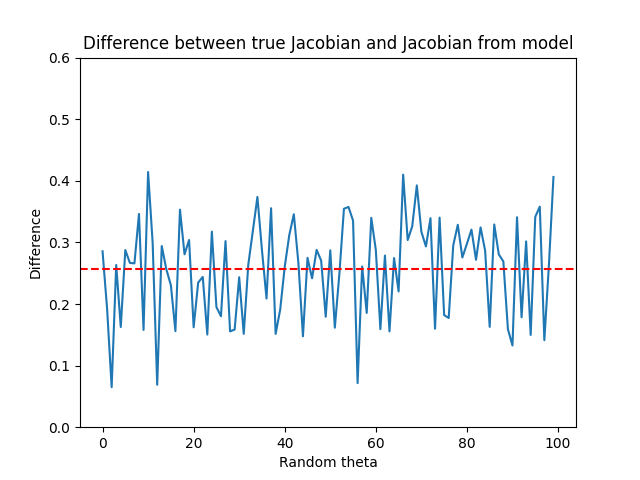
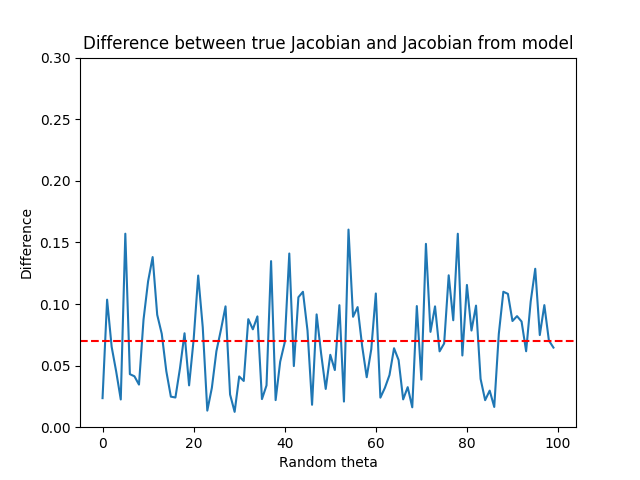
final changes: created main instead of run. modified hyper tuning. TODO: delete old files and create a py module

diff --git a/src/hyper_tuning_NN.py b/src/hyper_tuning_NN.py
@@ -1,60 +1,54 @@
 import parse
 import models
 import numpy as np
-import matplotlib.pyplot as plt
-import tensorflow as tf
 from itertools import product
 
-def run_experiment(neurons, activation, loss, optimizer, X_train, y_train, X_test, y_test, noutput):
-    model = tf.keras.models.Sequential([
-        tf.keras.layers.Dense(neurons[0], activation=activation),
-        tf.keras.layers.Dense(neurons[1], activation=activation),
-        tf.keras.layers.Dense(noutput)
-    ])
+def run_experiment(neurons, activation, loss, optimizer, dropout, regularize, X_train, y_train, X_test, y_test):
 
-    model.compile(optimizer=optimizer, loss=loss)
-    model.fit(X_train, y_train, epochs=10, verbose=0)  # Set verbose to 1 to see training output
+    global DIM, NJOINT
+    
+    nn = models.NeuralNetwork(DIM, NJOINT, neurons, regularize=regularize, dropout=dropout, optimizer=optimizer, activation=activation, loss=loss, save_model=False)
+    model = nn.get_trained_model(X_train, y_train)
+    err_pos, err_ori = nn.evaluate(X_test, y_test, verbose=0)
 
-    # Evaluate the model
-    loss_value = model.evaluate(X_test, y_test, verbose=0)
-    y_pred = model.predict(X_test)
-    err_pos = np.linalg.norm(y_pred[:, :DIM] - y_test[:, :DIM], axis=1)
     mean_err_pos = np.mean(err_pos)
 
-    if ORIENTATION:
-        err_ori = np.linalg.norm(y_pred[:, DIM:] - y_test[:, DIM:], axis=1)
+    if err_ori is not None:
         mean_err_ori = np.mean(err_ori)
         mean_total_error = np.mean(np.sqrt(err_pos**2 + err_ori**2))
     else:
         mean_err_ori = None
         mean_total_error = mean_err_pos
 
-    return loss_value, mean_err_pos, mean_err_ori, mean_total_error, model
+    return mean_err_pos, mean_err_ori, mean_total_error, model
 
 if __name__ == "__main__":
 
     DIM = 2
     NJOINT = 3
-    ORIENTATION = True
     VALIDATION = False
+    IN_SINCOS = False
+    OUT_ORIENTATION = False
 
     # ------------------------------------------------------------------------
     # Load the data
 
-    noutput = DIM + (4 if ORIENTATION and DIM == 3 else 2) if ORIENTATION else DIM
+    noutput = (DIM + (4 if OUT_ORIENTATION and DIM == 3 else 2)) if OUT_ORIENTATION else DIM
 
     data, header = parse.parse_data(f"../Dataset/logfile_{DIM}_{NJOINT}.csv")
-    X_train, X_test, y_train, y_test = parse.split_data(data, NJOINT, DIM, consider_orientation=ORIENTATION, header=header)
+    X_train, X_test, y_train, y_test = parse.split_data(data, NJOINT, DIM, consider_sincos=IN_SINCOS, consider_orientation=OUT_ORIENTATION, header=header)
 
     assert noutput == y_train.shape[1]
 
 
     # -----------------------------------------------------------------------
     # Hyperparameter to tune
-    neurons_options = [(x, y) for x,y in product([8, 16, 32, 48, 64], repeat=2)]
+    neurons_options = [(12,12), (16,16), (32,16), (32,32), (48,48)]
     activation_options = ['relu', 'tanh']
     loss_options = ['mean_squared_error', 'mean_absolute_error']
-    optimizer_options = ['adam', 'sgd', 'rmsprop']
+    optimizer_options = ['adam', 'sgd']
+    dropout_options = [True, False]
+    regularize_options = [True, False]
 
 
     # -----------------------------------------------------------------------
@@ -63,24 +57,34 @@ if __name__ == "__main__":
     best_error = float('inf')
     best_model = None
 
-    for neurons, activation, loss, optimizer in product(neurons_options, activation_options, loss_options, optimizer_options):
-        loss_value, mean_err_pos, mean_err_ori, mean_total_error, model = run_experiment(
-            neurons, activation, loss, optimizer, X_train, y_train, X_test, y_test, noutput
+    for neurons, activation, loss, optimizer, dropout, regularize in product(
+        neurons_options, activation_options, loss_options, optimizer_options, dropout_options, regularize_options):
+        
+        mean_err_pos, mean_err_ori, mean_total_error, model = run_experiment(
+            neurons, activation, loss, optimizer, dropout, regularize, X_train, y_train, X_test, y_test
         )
 
-        print(f"Configuration: Neurons={neurons}, Activation={activation}, Loss={loss}, Optimizer={optimizer}")
-        print(f"Loss: {loss_value}, Mean Pos Error: {mean_err_pos}, Mean Ori Error: {mean_err_ori}, Total Error: {mean_total_error}")
+        print(f"Configuration: Neurons={neurons}, Activation={activation}, Loss={loss}, Optimizer={optimizer}, Dropout={dropout}, Regularize={regularize}")
+        print(f"Mean Pos Error: {mean_err_pos}, Mean Ori Error: {mean_err_ori}, Total Error: {mean_total_error}")
 
         if mean_total_error < best_error:
             best_error = mean_total_error
-            best_config = (neurons, activation, loss, optimizer)
+            best_config = (neurons, activation, loss, optimizer, dropout, regularize)
             best_model = model
 
 
     print("\nBest Configuration:")
-    print(f"Neurons: {best_config[0]}, Activation: {best_config[1]}, Loss: {best_config[2]}, Optimizer: {best_config[3]}")
+    print(f"Neurons: {best_config[0]}, Activation: {best_config[1]}, Loss: {best_config[2]}, Optimizer: {best_config[3]}, Dropout: {best_config[4]}, Regularize: {best_config[5]}")
     print(f"Best Mean Total Error: {best_error}")
 
     # -----------------------------------------------------------------------
     # Save the best model
-    best_model.save("best_model.keras")
+    end_str = ""
+    if best_config[4] or best_config[5]:
+        end_str = "_"
+        if best_config[4]:
+            end_str += "d"
+        if best_config[5]:
+            end_str += "r"
+
+    best_model.save(f"../Models/{NJOINT}DOF/TUNED_model_{NJOINT}dof_NN-{best_config[0][0]}-{best_config[0][1]}" + end_str + ".keras")

diff --git a/src/models.py b/src/models.py
@@ -35,3 +35,130 @@ def get_model(noutput, regularize=False, dropout=False, layers=(8,8)) -> tf.kera
     model.compile(optimizer='adam', loss='mean_squared_error')
 
     return model
+
+class NeuralNetwork:
+    def __init__(self, dim, njoint, layers: tuple, in_sincos=False, out_orientation=False, regularize=False, dropout=False,
+                 optimizer='adam', loss='mean_squared_error', activation='relu', save_model=True):
+        self.dim = dim
+        self.njoint = njoint
+        self.layers = layers
+        self.in_sincos = in_sincos
+        self.out_orientation = out_orientation
+        self.regularize = regularize
+        self.dropout = dropout
+        self.optimizer = optimizer
+        self.loss = loss
+        self.activation = activation
+
+        if out_orientation:
+            self.noutput = dim + (2 if dim == 2 else 4)
+        else:
+            self.noutput = dim
+        
+        end_str = ""
+        if dropout or regularize:
+            end_str = "_"
+            if dropout:
+                end_str += "d"
+            if regularize:
+                end_str += "r"
+
+        if save_model:
+            from os import listdir
+            self.get_model_filename = f"../Models/{njoint}DOF/model_{njoint}dof_NN-{layers[0]}-{layers[1]}" + end_str + ".keras"
+            if self.get_model_filename not in listdir(f"../Models/{njoint}DOF/"):
+                print("Already saved model found!")
+                self.set_model_filename = self.get_model_filename
+                self.get_model_filename = None
+        else:
+            self.get_model_filename = None
+            self.set_model_filename = None
+    
+    def __get_model__(self):
+        model_list = []
+        for layer in self.layers:
+            if self.regularize:
+                model_list.append(tf.keras.layers.Dense(layer, activation=self.activation, kernel_regularizer=tf.keras.regularizers.l2(0.001)))
+            else:
+                model_list.append(tf.keras.layers.Dense(layer, activation=self.activation))
+        if self.dropout:
+            model_list.append(tf.keras.layers.Dropout(0.2))
+        model_list.append(tf.keras.layers.Dense(self.noutput))
+        self.model = tf.keras.models.Sequential(model_list)
+        self.model.compile(optimizer=self.optimizer, loss=self.loss)
+
+        return self.model
+
+
+    def get_trained_model(self, X_train, y_train, verbose=False):
+
+        assert self.noutput == y_train.shape[1]
+        if verbose:
+            print(f"# input: {X_train.shape[1]}")
+            print(f"# output: {y_train.shape[1]}")
+            print()
+
+        if self.get_model_filename is not None:
+            self.model = tf.keras.models.load_model(self.get_model_filename)
+        else:
+            self.__get_model__()
+            self.model.fit(X_train, y_train, epochs=10, verbose=0)
+            if self.set_model_filename is not None:
+                self.model.save(self.set_model_filename)
+
+        return self.model
+            
+    def evaluate(self, X_test, y_test, verbose=2):
+        self.model.evaluate(X_test, y_test, verbose=verbose)
+
+        y_pred = self.model.predict(X_test)
+
+        err_pos = tf.linalg.norm(y_pred[:, :self.dim] - y_test[:, :self.dim], axis=1)
+        err_ori = None
+        if self.out_orientation:
+            err_ori = tf.linalg.norm(y_pred[:, self.dim:] - y_test[:, self.dim:], axis=1)
+
+        if verbose:
+            print(f"Mean error in position: {tf.reduce_mean(err_pos)}")
+            if self.out_orientation:
+                print(f"Mean error in orientation: {tf.reduce_mean(err_ori)}")
+
+        return err_pos, err_ori
+    
+    def plot_error(self, err_pos):
+        import matplotlib.pyplot as plt
+        plt.figure()
+        plt.plot(err_pos)
+        plt.savefig("output.png")
+
+    def compare_jacobian(self, model, thetas):
+        import jacobian
+        print("\n------------------------------")
+        print("Jacobian comparison\n")
+
+        diffs = []
+        for theta in thetas:
+            J = jacobian.FK_Jacobian(model,theta)
+            J_true = jacobian.fwd_kin_jacobian_true(theta)
+            diff = tf.abs(J-J_true)
+            df_sum = tf.reduce_sum(diff) / (self.njoint*2)
+            diffs.append(df_sum)
+
+        return diffs
+    
+    def plot_jac_diff(self, diffs):
+        import numpy as np
+        import matplotlib.pyplot as plt
+
+        plt.figure()
+        plt.plot(diffs)
+        plt.ylim(0, 0.3)
+        plt.axhline(y=tf.reduce_mean(diffs), color='r', linestyle='--')
+        plt.xlabel("Random theta")
+        plt.ylabel("Difference")
+        plt.title("Difference between true Jacobian and Jacobian from model")
+        plt.savefig(f"../Imgs/Jac_diffs/{self.njoint}DOF/NN_{self.layers[0]}-{self.layers[1]}_s100.png")
+        
+        print("Mean difference:", np.mean(diffs))
+        print("Max difference: ", np.max(diffs))
+        print("Min difference: ", np.min(diffs))

diff --git a/src/run.py b/src/run.py
@@ -1,3 +1,4 @@
+import os
 import pid
 import time
 import parse
@@ -15,21 +16,17 @@ if __name__ == "__main__":
     # Globals
 
     DIM = 2
-    NJOINT = 2
+    NJOINT = 3
     IN_SINCOS = False
     OUT_ORIENTATION = False
 
-    NN = (16,16)
+    NN = (48,48)
     VALIDATION = False
-    if VALIDATION:
-        SET_MODEL_FILENAME = None
-        GET_MODEL_FILENAME = f"../Models/{NJOINT}DOF/model_{NJOINT}dof_NN-{NN[0]}-{NN[1]}.keras"
-    else:
-        SET_MODEL_FILENAME = f"../Models/{NJOINT}DOF/model_{NJOINT}dof_NN-{NN[0]}-{NN[1]}.keras"
+
+    GET_MODEL_FILENAME = f"../Models/{NJOINT}DOF/model_{NJOINT}dof_NN-{NN[0]}-{NN[1]}.keras"
+    if GET_MODEL_FILENAME not in os.listdir(f"../Models/{NJOINT}DOF/"):
+        SET_MODEL_FILENAME = GET_MODEL_FILENAME
         GET_MODEL_FILENAME = None
-        GET_MODEL_FILENAME = f"../Models/{NJOINT}DOF/model_{NJOINT}dof_NN-{NN[0]}-{NN[1]}.keras"
-
-
     # ------------------------------------------------------------------------
     # Load the data and split it into train and test
 
@@ -58,8 +55,8 @@ if __name__ == "__main__":
 
 
     assert noutput == y_train.shape[1]
-    print(f"Number of input: {X_train.shape[1]}")
-    print(f"Number of output: {noutput}")
+    print(f"# input: {X_train.shape[1]}")
+    print(f"# output: {noutput}")
 
     # ------------------------------------------------------------------------
     # Train the model
@@ -137,7 +134,7 @@ if __name__ == "__main__":
 
     # ------------------------------------------------------------------------
     # Inverse Kinematics
-    
+
     print("------------------------------")
     print("Inverse Kinematics")
 
@@ -245,6 +242,15 @@ if __name__ == "__main__":
     print("----")
     print(f"[THT] GOT: {curr_theta}")
     print(f"[POS] GOT: {jacobian.FK(model, curr_theta)}")
+
+# [POS] True Goal:  sfera rossa
+# [POS] FK True:    sfera blu
+# [POS] FK:         sfera verde
+
+# distanza tra sfera blu e verde indica quanto la FK del modello è buona
+# - se lontane, probabilmente il modello non è stato addestrato bene
+# distanza tra sfera rossa e la verde indica quanto l'algoritmo di INV KIN è buono:
+# - se lontane, probabilmente l'algoritmo non ha trovato convergenza
 
 
 # 2 OUTPUT

diff --git a/src/inverse_kin.py b/src/inverse_kin.py
@@ -25,6 +25,7 @@ def inverse_kinematic(model, in_theta, goal_pos, num_it=500, lambda_=0.1, dbg=Fa
 
         for i in range(num_it):
             err = jacobian.FK(model, curr_theta) - goal_pos  
+            err = tf.cast(err, tf.float64)
 
             if tf.reduce_sum(tf.abs(err)) < 1e-3:
                 if dbg:
@@ -41,7 +42,6 @@ def inverse_kinematic(model, in_theta, goal_pos, num_it=500, lambda_=0.1, dbg=Fa
             delta_theta = tf.reshape(delta_theta, (-1,))
 
             curr_theta.assign_add(delta_theta)
-            # curr_theta.assign(tf.math.floormod(curr_theta, 2*np.pi))
             curr_theta.assign(tf.where(curr_theta > np.pi, curr_theta - 2*np.pi, curr_theta))
             curr_theta.assign(tf.where(curr_theta < -np.pi, curr_theta + 2*np.pi, curr_theta))
         else:
@@ -61,6 +61,7 @@ def inverse_kinematic(model, in_theta, goal_pos, num_it=500, lambda_=0.1, dbg=Fa
         for i in range(num_it):
             err = jacobian.FK(model, curr_theta) - goal_pos  
             err = tf.cast(err, tf.float64)
+            
             if tf.reduce_sum(tf.abs(err)) < 1e-3:
                 if dbg:
                     print(f"Break at iteration {i}")
@@ -75,7 +76,6 @@ def inverse_kinematic(model, in_theta, goal_pos, num_it=500, lambda_=0.1, dbg=Fa
             delta_theta = tf.reshape(delta_theta, (-1,))
 
             curr_theta.assign_add(delta_theta)
-            # curr_theta = tf.where(curr_theta > np.pi, curr_theta - 2*np.pi, curr_theta)
             curr_theta.assign(tf.where(curr_theta > np.pi, curr_theta - 2*np.pi, curr_theta))
             curr_theta.assign(tf.where(curr_theta < -np.pi, curr_theta + 2*np.pi, curr_theta))
 

diff --git a/src/pid.py b/src/pid.py
@@ -2,6 +2,7 @@ import sys
 import time
 import jacobian
 import numpy as np
+import tensorflow as tf
 from envs.reacher_v6 import ReacherEnv
 from envs.reacher3_v6 import Reacher3Env
 from envs.marrtino_arm import MARRtinoArmEnv
@@ -48,18 +49,27 @@ def get_rnd_theta(NJOINT):
     if NJOINT != 2 and NJOINT != 3:
         print(f"Unknown environment {NJOINT}")
         sys.exit(1)
-    minmax = [3.14, 3] if NJOINT == 2 else [3.14, 1.8, 1.8]
+    bounds = [3.14, 3] if NJOINT == 2 else [3.14, 1.8, 1.8]
     rnd = np.random.random((NJOINT,)).astype(np.float32)
-    return np.array([rnd[i] * 2 * minmax[i] - minmax[i] for i in range(NJOINT)])
+    
+    theta = np.array([rnd[i] * 2 * bounds[i] - bounds[i] for i in range(NJOINT)])
+    theta = tf.cast(theta, tf.float64)
+    return theta
 
-def get_rnd_pos_in_workspace(NJOINT):
+def get_rnd_pos_in_workspace(NJOINT, verbose=False):
     if NJOINT != 2 and NJOINT != 3:
         print(f"Unknown environment {NJOINT}")
         sys.exit(1)
+
     theta = get_rnd_theta(NJOINT)
-    print(f"[THT] True Goal: {theta}\n")
-    # print(f"Goal pos: {jacobian.fwd_kin_true(theta)}")
-    return jacobian.fwd_kin_true(theta)
+
+    pos = jacobian.fwd_kin_true(theta)
+    pos = tf.cast(pos, tf.float64)
+    
+    if verbose:
+        print(f"[THT] True Goal: {theta}\n")
+        # print(f"Goal pos: {jacobian.fwd_kin_true(theta)}")
+    return pos
 
 
 class PID_Controller:
